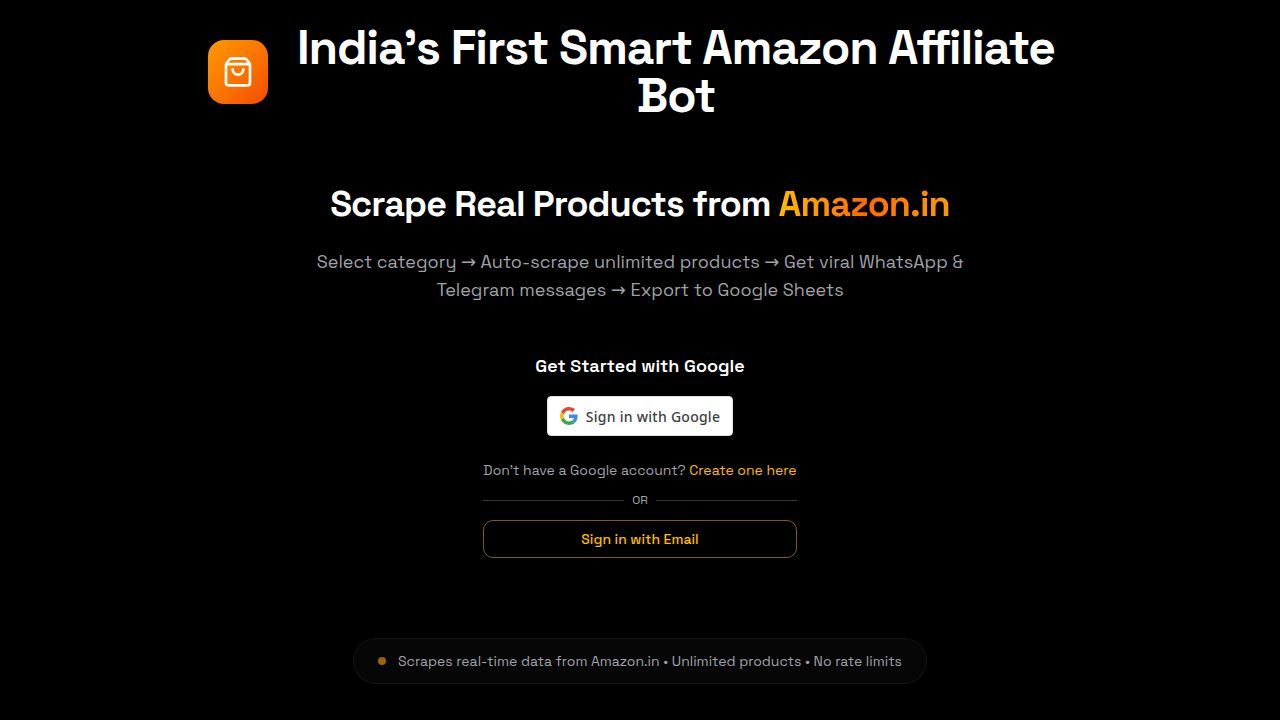
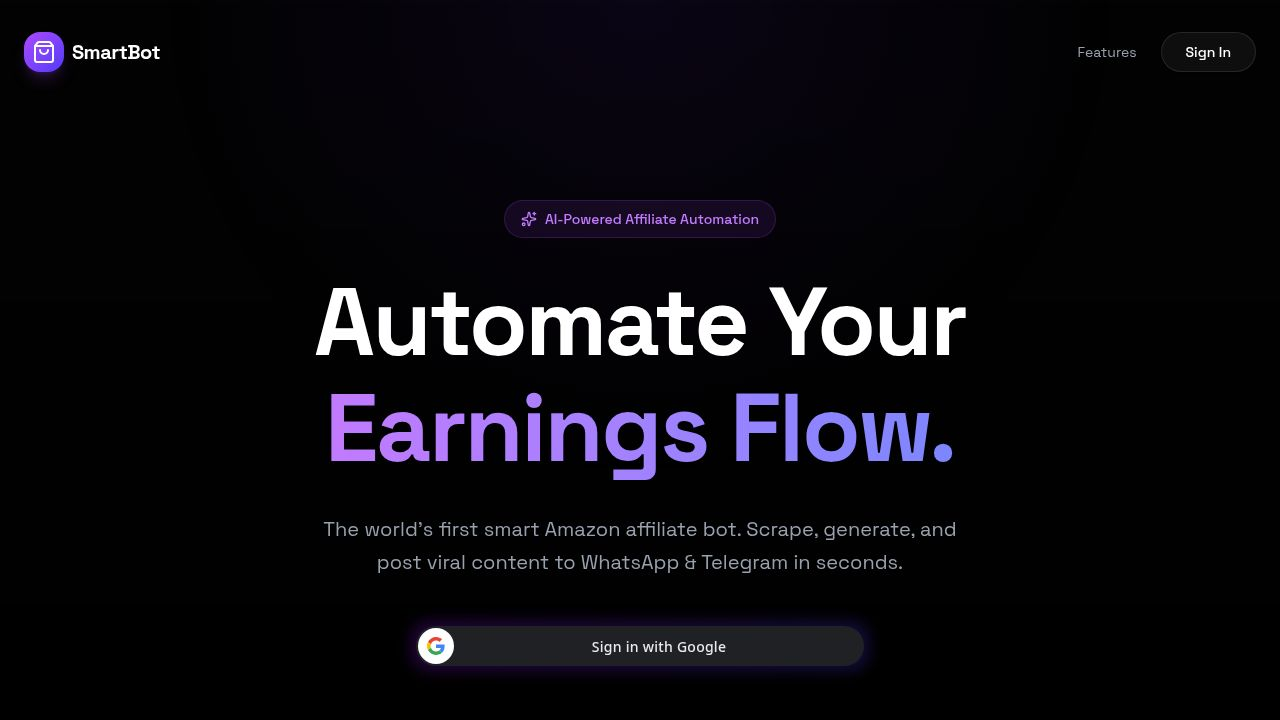
Update Google login to use client-side decoding
Implement jwt-decode in the frontend for Google OAuth, improving the login flow and adding @types/jwt-decode to package.json.

Replit-Commit-Author: Agent
Replit-Commit-Session-Id: 19965dba-fb23-427d-840b-e7e598382bf9
Replit-Commit-Checkpoint-Type: intermediate_checkpoint
Replit-Commit-Event-Id: c80867d3-053f-4310-96ee-d915e37d42c4
Replit-Commit-Screenshot-Url: https://storage.googleapis.com/screenshot-production-us-central1/8dec7172-54fe-46a5-b147-47b4dedc78c1/19965dba-fb23-427d-840b-e7e598382bf9/SjheRV7

diff --git a/client/src/pages/Login.tsx b/client/src/pages/Login.tsx
@@ -5,8 +5,7 @@ import { Input } from "@/components/ui/input";
 import { Card, CardContent } from "@/components/ui/card";
 import { motion } from "framer-motion";
 import { ShoppingBag, ArrowRight, AlertCircle } from "lucide-react";
-import { GoogleLogin } from "@react-oauth/google";
-import { toast } from "@/hooks/use-toast";
+import { jwtDecode } from "jwt-decode";
 
 export default function Login() {
   const [, setLocation] = useLocation();
@@ -64,20 +63,6 @@ export default function Login() {
   const handleGoogleSuccess = async (credentialResponse: any) => {
     setIsLoading(true);
     try {
-      const response = await fetch("/api/auth/google", {
-        method: "POST",
-        headers: { "Content-Type": "application/json" },
-        body: JSON.stringify({ 
-          token: credentialResponse.credential, // The actual JWT from Google
-          // We need to decode this on the server or send the necessary info
-          // For now, let's stick to the current server implementation which expects email/name
-          // But wait, the server uses googleAuthSchema: email, name
-          // I need to decode it here and send it.
-        }),
-      });
-
-      // Actually, let's fix the frontend to decode properly like before
-      const jwtDecode = (await import("jwt-decode")).jwtDecode;
       const decoded: any = jwtDecode(credentialResponse.credential);
       
       const res = await fetch("/api/auth/google", {
